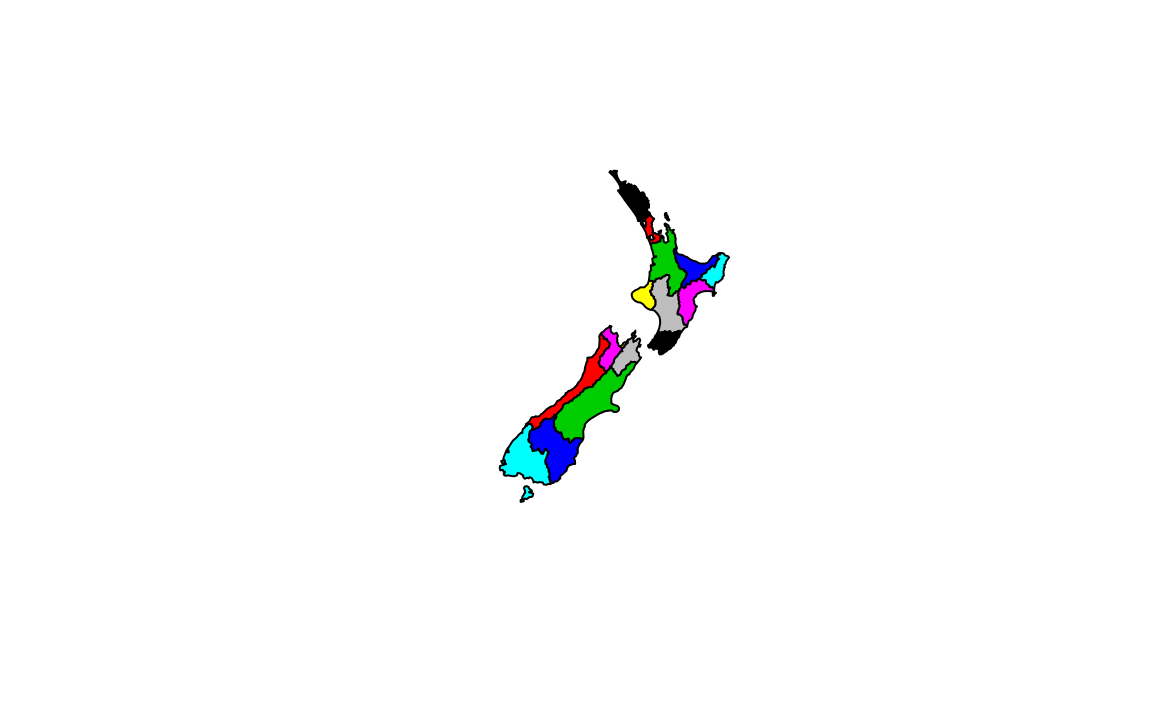
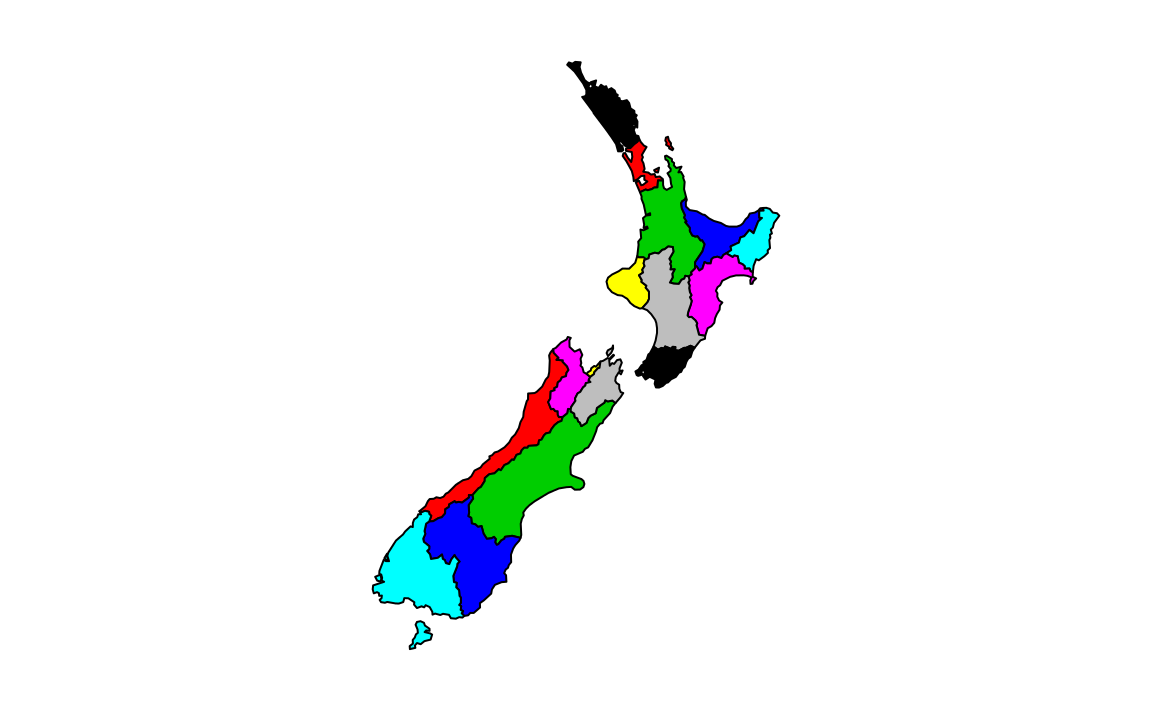
Updating book (2886)
Former-commit-id: 9caa3377999bc31355b2adc6098b1bdcf6bdda3f
Former-commit-id: 81f88c59019ababe80b5445dbcdf3413ad1371e2

Changed region(s): [[0.3125, 0.0928, 0.6875, 0.9283]]

diff --git a/adv-map.html b/adv-map.html
@@ -461,7 +461,8 @@ Figure 9.4: Comparison of base (left) and tmap (right) handling of a numeric col
 </p>
 </div>
 <p>Additional aesthetic settings are demonstrated in the code chunk below, which colors regions in New Zealand depending on their area. The results show how custom breaks can be set with the <code>breaks</code> argument (Figure <a href="adv-map.html#fig:tmpal">9.5</a> center). Additional palette options include <code>n</code> (which sets the number of bins into which numeric variables are categorised) and <code>palette</code> (which defines the colorscheme — which can be selected interactively with <code>tmaptools::palette_explorer()</code>). Results of changing values for these simultaneously are shown in Figure <a href="adv-map.html#fig:tmpal">9.5</a> (right):</p>
-<div class="sourceCode"><pre class="sourceCode r"><code class="sourceCode r"><span class="kw">tm_shape</span>(nz) +<span class="st"> </span><span class="kw">tm_fill</span>(<span class="dt">col =</span> <span class="st">&quot;AREA_SQ_KM&quot;</span>)
+<div class="sourceCode"><pre class="sourceCode r"><code class="sourceCode r">breaks =<span class="st"> </span><span class="kw">c</span>(<span class="dv">0</span>, <span class="dv">3</span>, <span class="dv">4</span>, <span class="dv">5</span>) *<span class="st"> </span><span class="fl">1e4</span>
+<span class="kw">tm_shape</span>(nz) +<span class="st"> </span><span class="kw">tm_fill</span>(<span class="dt">col =</span> <span class="st">&quot;AREA_SQ_KM&quot;</span>)
 <span class="kw">tm_shape</span>(nz) +<span class="st"> </span><span class="kw">tm_fill</span>(<span class="dt">col =</span> <span class="st">&quot;AREA_SQ_KM&quot;</span>, <span class="dt">breaks =</span> breaks)
 <span class="kw">tm_shape</span>(nz) +<span class="st"> </span><span class="kw">tm_fill</span>(<span class="dt">col =</span> <span class="st">&quot;AREA_SQ_KM&quot;</span>, <span class="dt">n =</span> <span class="dv">10</span>)
 <span class="kw">tm_shape</span>(nz) +<span class="st"> </span><span class="kw">tm_fill</span>(<span class="dt">col =</span> <span class="st">&quot;AREA_SQ_KM&quot;</span>, <span class="dt">palette =</span> <span class="st">&quot;RdBu&quot;</span>)</code></pre></div>
